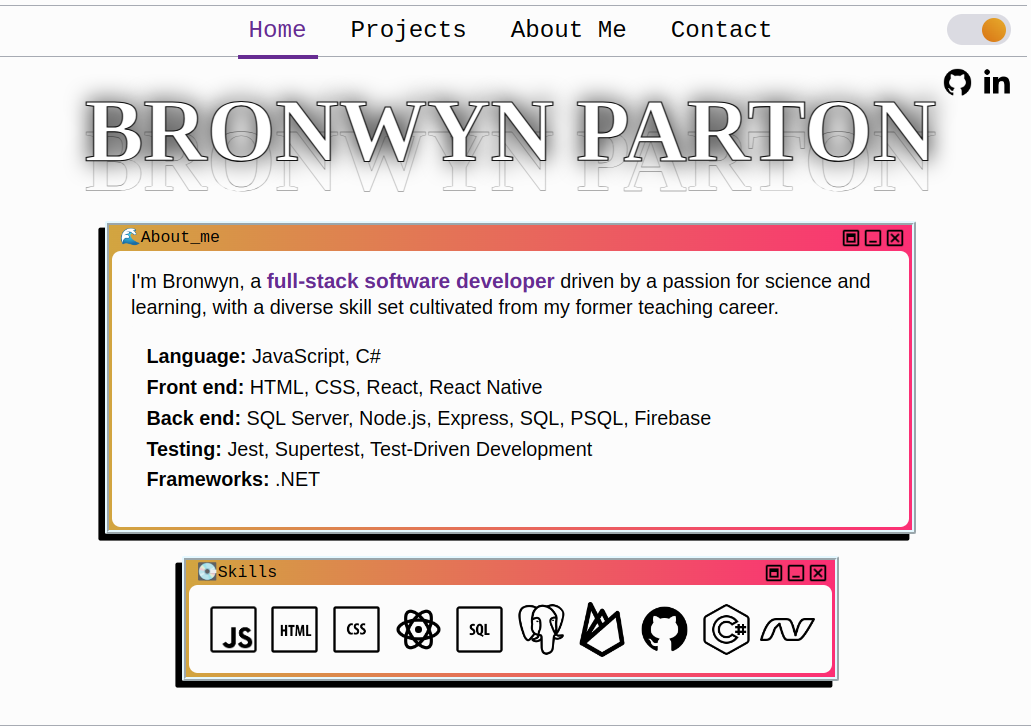
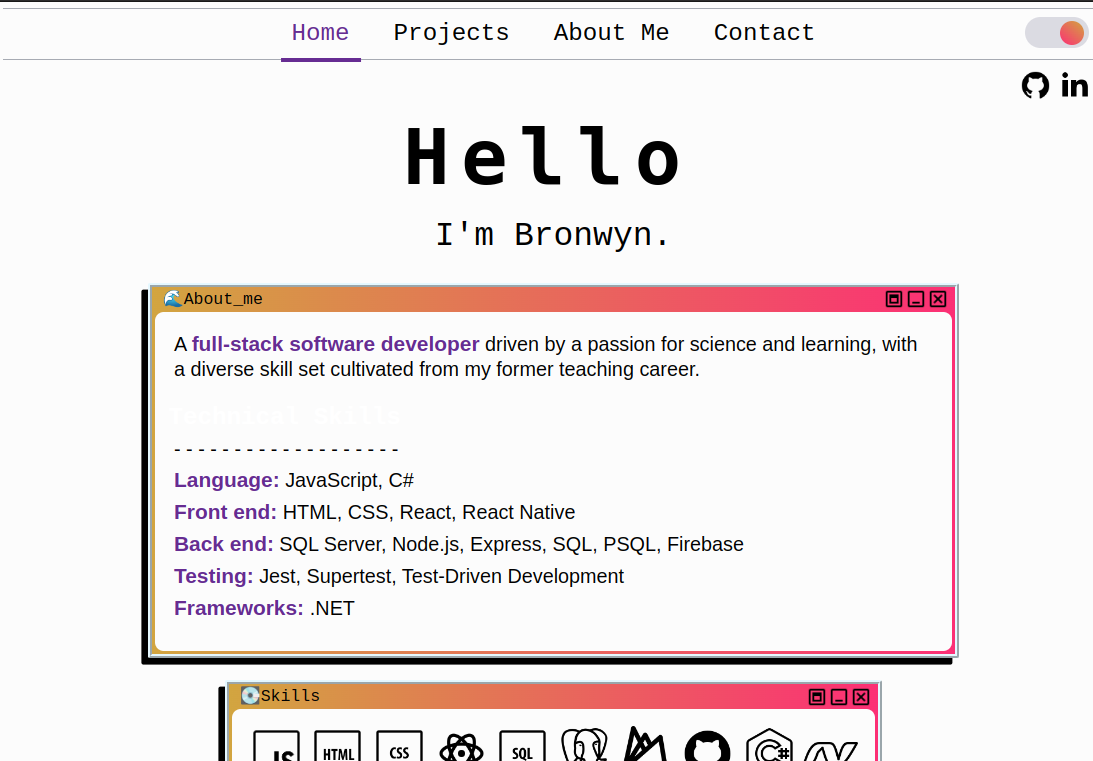
add changes to styling on index page

diff --git a/assets/css/index.css b/assets/css/index.css
@@ -1,81 +1,40 @@
-@font-face {
-    font-family: 'MADE Soulmaze Outline Regular';
-    src: url('https://fonts.googleapis.com/css2?family=Inter:wght@400;500;600;700&display=swap') format('font-format'); 
-}
-
-
-  @keyframes fadeIn {
-    0% {
-      transform: translateY(-70px);
-      opacity: 1;
-    }
-  
-    100% {
-      transform: translateY(-30%);
-      opacity: 1;
-    }
-  }
-  
-
-.XL-text {
-    text-transform: uppercase;
-    opacity: 0;
-    font-weight: bolder;
-    text-align: center;
-    color: #ffffff;
-    font-family: "MADE Soulmaze Outline Regular";
-    line-height: min(10vw, 81px);
-    text-shadow: 0px 0px 21px rgb(255 255 255 / 65%);
-    z-index: 1;
-    animation: fadeIn 1.5s ease-in 0s forwards;
-  }
-  
-  .L-text {
-    position: absolute;
-    font-family: "MADE Soulmaze Outline Regular";
-    text-transform: uppercase;
-    text-align: center;
-    font-size: min(10vw, 85px);
-    font-weight:bolder;
-    line-height: min(10vw, 81px);
-    color: transparent;
-    -webkit-text-stroke: 0.3px rgba(255, 255, 255, 0.497);
-  }
-
-
 #intro {
-    padding: 12px;
-    margin: 0 2px 2px 2px;
-    max-width: 700px;
-    border-radius: 8px;
-    background-color: rgb(27, 26, 26);
+  padding: 12px;
+  margin: 0 2px 2px 2px;
+  max-width: 700px;
+  border-radius: 8px;
+  background-color: rgb(27, 26, 26);
   color: rgb(255, 255, 255);
 }
 
-#skills {
-    padding: 12px;
-    margin: 0 2px 2px 2px;
-    max-width: 700px;
-    border-radius: 8px;
-    background-color: rgb(27, 26, 26);
-  color: rgb(255, 255, 255);
+.index-text {
+  text-align: start;
+  margin: 20px;
+  font-family: Courier New, Courier, monospace;
+  font-size: 30px;
+}
+
+.index-headings {
+  font-family: Courier New, Courier, monospace;
+  font-size: 22px;
+  color: #FFFFFF;
 }
 
 #skills-images {
-    padding: 12px;
-    margin: 0 2px 2px 2px;
-    max-width: 700px;
-    border-radius: 8px;
-    display:flex;
-    flex-direction: row;
-    justify-content: space-around;
-    flex-wrap: wrap;
-    background-color: rgb(27, 26, 26);
+  padding: 12px;
+  margin: 0 2px 2px 2px;
+  max-width: 700px;
+  border-radius: 8px;
+  display: flex;
+  flex-direction: row;
+  justify-content: space-around;
+  flex-wrap: wrap;
+  background-color: rgb(27, 26, 26);
   color: rgb(255, 255, 255);
 }
 
 .img-icons {
-  width:50px;
-  height:50px;
+  width: 50px;
+  height: 50px;
   margin: 3px;
 }

diff --git a/index.html b/index.html
@@ -126,12 +126,12 @@
       </div>
 
       <section class="box1">
-        <div class="XL-text">
-          <h1>Bronwyn Parton</h1>
+        <div class="typewriter">
+          <h1>Hello</h1>
         </div>
-        <div class="L-text">
-          <h1>Bronwyn Parton</h1>
-        </div>
+        <p class="index-text">
+          I'm Bronwyn.
+        </p>
       </section>
 
       <main class="box2">
@@ -155,27 +155,30 @@
           </div>
           <div class="border-wrap">
             <section id="intro">
-              <p>
-                I'm Bronwyn, a
-                <span class="emphasis-text">full-stack software developer</span>
+              <p style="margin-bottom: 20px;">
+                A <span class="emphasis-text">full-stack software developer</span>
                 driven by a passion for science and learning, with a diverse
                 skill set cultivated from my former teaching career.
               </p>
-              <section id="skills">
-                <p><span class="bold">Language:</span> JavaScript, C#</p>
+              <h2 class="index-headings">
+                Technical Skills
+              </h2>
+              <p>- - - - - - - - - - - - - - - - - - -</p>
+              <section style="margin-bottom: 15px;" id="skills">
+                <p><span class="emphasis-text">Language:</span> JavaScript, C#</p>
                 <p>
-                  <span class="bold">Front end:</span> HTML, CSS, React, React
+                  <span class="emphasis-text">Front end:</span> HTML, CSS, React, React
                   Native
                 </p>
                 <p>
-                  <span class="bold">Back end:</span> SQL Server, Node.js,
+                  <span class="emphasis-text">Back end:</span> SQL Server, Node.js,
                   Express, SQL, PSQL, Firebase
                 </p>
                 <p>
-                  <span class="bold">Testing:</span> Jest, Supertest,
+                  <span class="emphasis-text">Testing:</span> Jest, Supertest,
                   Test-Driven Development
                 </p>
-                <p><span class="bold">Frameworks: </span> .NET</p>
+                <p><span class="emphasis-text">Frameworks: </span> .NET</p>
               </section>
             </section>
           </div>

diff --git a/assets/css/projects.css b/assets/css/projects.css
@@ -1,28 +1,3 @@
-/* Heading */ 
-.typewriter h1 {
-    font-family: monospace;
-    overflow: hidden;
-    white-space: nowrap; 
-    border-right: .15em solid #F9FB74; 
-    margin: 0 auto; /* Gives that scrolling effect as the typing happens */
-    letter-spacing: .15em; 
-    animation: 
-      typing 3.5s steps(25, end),
-      blink-caret .8s step-end 10;
-      animation-fill-mode: forwards;
-  }
-  
-  @keyframes typing {
-    from { width: 0 }
-    to { width: 100% }
-  }
-  
- @keyframes  blink-caret {
-    from, to { border-color: transparent }
-    50% { border-color: #F9FB74; }
-  }
-
-/* Page intro text */
 .projects-text {
     text-align: start;
     margin: 20px;
@@ -60,7 +35,6 @@
         opacity: 0.95;
 }
 
-/* Image styling */
 .project-imgs {
     width: 100%;
     height: auto;
@@ -78,7 +52,6 @@
     font-size: 0;
 }
 
-/* Overlay text */
 .text {
     color: rgb(0, 0, 0);
     position: absolute;
@@ -96,7 +69,6 @@
     justify-content: center;
 }
 
-/* Project text */
 .text-container {
     max-width: 400px;
     margin: 5px;
@@ -105,7 +77,6 @@
     flex-direction: column;
 }
 
-/* Project links */
 .text-container a {
     font-family: Courier New, Courier, monospace;
     font-size: 14px;
@@ -113,7 +84,6 @@
     text-align: center;
 }
 
-/* Tech stack info */
 .tech-btns {
     display:flex;
     flex-direction: row;
@@ -140,7 +110,6 @@
     font-weight: 400;
 }
 
-/* Button Styling */
 .btn-wrapper1 {
     background: #C0C0C0;
     padding: 10px;

diff --git a/assets/css/aboutme.css b/assets/css/aboutme.css
@@ -1,47 +1,23 @@
-.typewriter h1 {
-    color: #fff;
-    font-family: monospace;
-    overflow: hidden; 
-    border-right: .15em solid #F9FB74; 
-    white-space: nowrap; 
-    margin: 0 auto; 
-    letter-spacing: .15em; 
-    animation: 
-      typing 3.5s steps(25, end),
-      blink-caret .8s step-end 10;
-      animation-fill-mode: forwards;
-  }
-  
-  @keyframes typing {
-    from { width: 0 }
-    to { width: 100% }
-  }
-  
-  @keyframes blink-caret {
-    from, to { border-color: transparent }
-    50% { border-color: #F9FB74; }
-  }
-
 .projects-text {
-    text-align: start;
-    margin: 20px;
-    font-family: Courier New, Courier, monospace;
+  text-align: start;
+  margin: 20px;
+  font-family: Courier New, Courier, monospace;
 }
 
 .about-me-container {
-    padding: 12px;
-    margin: 0 2px 2px 2px;
-    max-width: 800px;
-    border-radius: 8px;
-    display: flex;
-    justify-content: space-between;
-    flex-direction: column;
-    background-color: rgb(27, 26, 26);
+  padding: 12px;
+  margin: 0 2px 2px 2px;
+  max-width: 800px;
+  border-radius: 8px;
+  display: flex;
+  justify-content: space-between;
+  flex-direction: column;
+  background-color: rgb(27, 26, 26);
   color: rgb(255, 255, 255);
 }
 
 .about-me-headings {
-    font-family: Courier New, Courier, monospace;
-    font-size: 25px;
-    color: #FFFFFF;
+  font-family: Courier New, Courier, monospace;
+  font-size: 25px;
+  color: #ffffff;
 }

diff --git a/assets/css/layout.css b/assets/css/layout.css
@@ -52,6 +52,29 @@ h1 {
   margin: 5px;
 }
 
+.typewriter h1 {
+  font-family: monospace;
+  overflow: hidden;
+  white-space: nowrap; 
+  border-right: .15em solid #F9FB74; 
+  margin: 0 auto; /* Gives that scrolling effect as the typing happens */
+  letter-spacing: .15em; 
+  animation: 
+    typing 3.5s steps(25, end),
+    blink-caret .8s step-end 10;
+    animation-fill-mode: forwards;
+}
+
+@keyframes typing {
+  from { width: 0 }
+  to { width: 100% }
+}
+
+@keyframes  blink-caret {
+  from, to { border-color: transparent }
+  50% { border-color: #F9FB74; }
+}
+
 h2 {
   font-family: sans-serif, Courier New, Courier, monospace;
   font-weight: 700;

diff --git a/assets/css/contact.css b/assets/css/contact.css
@@ -1,27 +1,3 @@
-.typewriter h1 {
-    color: #fff;
-    font-family: monospace;
-    overflow: hidden; 
-    border-right: .15em solid #F9FB74;
-    white-space: nowrap;
-    margin: 0 auto;
-    letter-spacing: .15em;
-    animation: 
-      typing 3.5s steps(25, end),
-      blink-caret .8s step-end 10;
-      animation-fill-mode: forwards;
-  }
-  
-  @keyframes typing {
-    from { width: 0 }
-    to { width: 100% }
-  }
-  
-  @keyframes blink-caret {
-    from, to { border-color: transparent }
-    50% { border-color: #F9FB74; }
-  }
-  
 .projects-text {
     text-align: start;
     margin: 20px;
